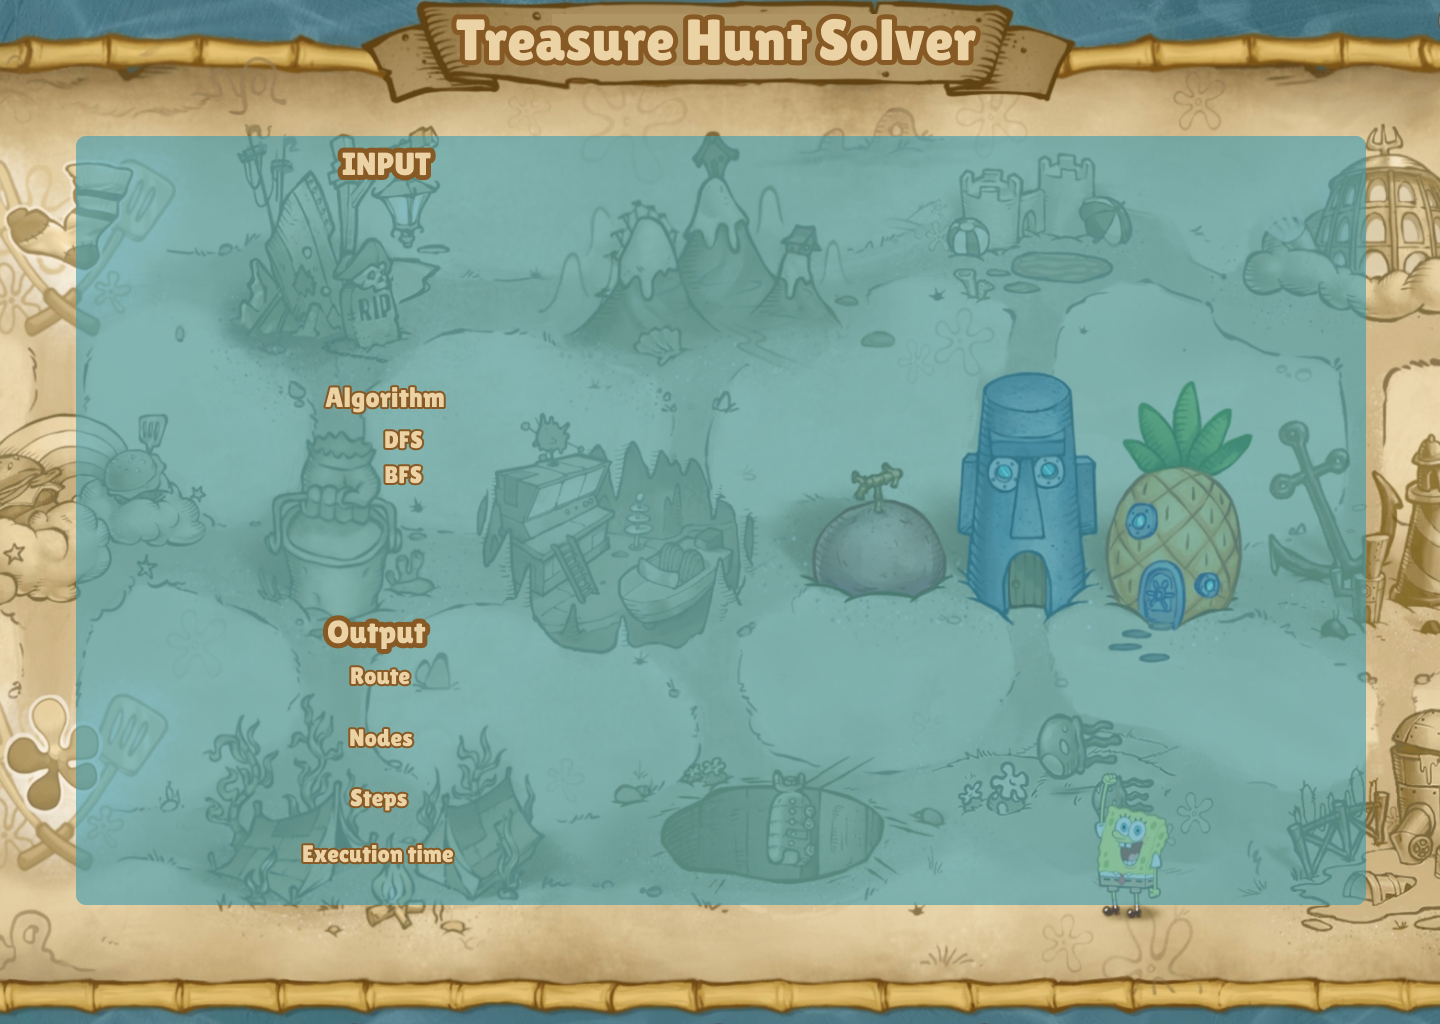
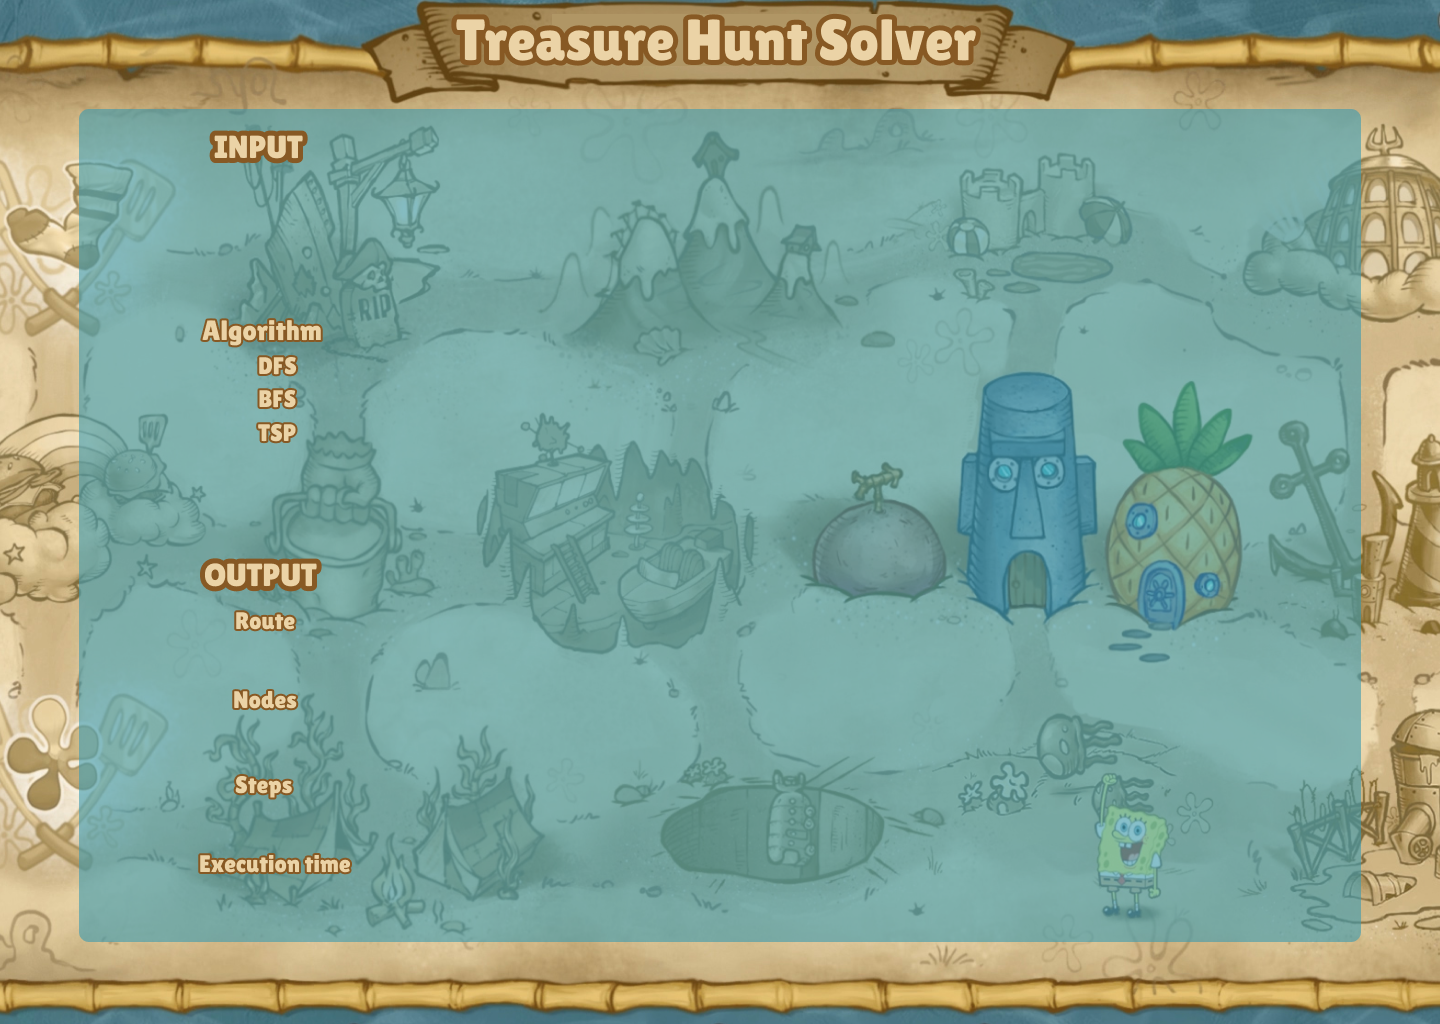
final

Changed region(s): [[0.0312, 0.0938, 0.9688, 0.9375], [0.125, 0.3125, 0.3125, 0.4688], [0.1562, 0.75, 0.2188, 0.7812]]

diff --git a/Main.xaml b/Main.xaml
@@ -6,20 +6,103 @@
         xmlns:local="clr-namespace:MazeSolver"
         mc:Ignorable="d"
         Title="Menu"
+        Height="650" 
+        Width="935"
         WindowStyle="None"
-        WindowState="Maximized"
         d:DesignWidth="868.031">
     <Grid>
-        <Button Name="SelectFile" Content="Open File" HorizontalAlignment="Left" Height="22" Margin="24,126,0,0" VerticalAlignment="Top" Width="123" Click="SelectFile_Click"/>
-        <TextBox Name="FileName" HorizontalAlignment="Left" Height="23" Margin="24,69,0,0" TextWrapping="NoWrap" Text="Masukkan file .." VerticalAlignment="Top" Width="290" TextChanged="TextBox_TextChanged" />
-        <RadioButton Name="dfs" Content="DFS" HorizontalAlignment="Left" Height="19" Margin="24,171,0,0" VerticalAlignment="Top" Width="73" Checked="DFS"/>
-        <RadioButton Name="bfs" Content="BFS" HorizontalAlignment="Left" Height="17" VerticalAlignment="Top" Width="84" Margin="24,205,0,0" Checked="BFS"/>
-        <Button Name="visualize" Content="viusalize" HorizontalAlignment="Left" Margin="130,309,0,0" VerticalAlignment="Top" Height="54" Width="197" Click="Visualize_Click" FontSize="25"/>
-        <Slider HorizontalAlignment="Left" Margin="24,259,0,0" VerticalAlignment="Top" Width="410" Height="28"/>
-        <TextBox Name="MethodNotSelected" HorizontalAlignment="Left" Margin="24,227,0,0" TextWrapping="Wrap" Text="" VerticalAlignment="Top" Width="120" BorderThickness="0"/>
-        <TextBox Name="FileNotSelected" HorizontalAlignment="Left" Margin="24,97,0,0" TextWrapping="Wrap" Text="" VerticalAlignment="Top" Width="120" BorderThickness="0"/>
-        <Rectangle HorizontalAlignment="Stretch" Height="NaN" Margin="470,0,0,0" Stroke="LightBlue" VerticalAlignment="Stretch" Width="NaN" Fill="LightCyan"/>
-        <TextBox HorizontalAlignment="Left" Height="46" Margin="24,10,0,0" TextWrapping="Wrap" Text="Maze Solver" VerticalAlignment="Top" Width="410" FontSize="35" TextAlignment="Center" BorderThickness="0"/>
-        <Canvas Name ="map" Margin="470,0,0,0" Height="NaN" Width="NaN" HorizontalAlignment="Stretch" VerticalAlignment="Stretch"/>
+        <Grid.ColumnDefinitions>
+            <ColumnDefinition/>
+        </Grid.ColumnDefinitions>
+        <Grid.Background>
+            <ImageBrush ImageSource="assets/bg.png"/>
+        </Grid.Background>
+        <Grid Margin="0,-16,0,0">
+            <Grid.ColumnDefinitions>
+                <ColumnDefinition/>
+            </Grid.ColumnDefinitions>
+
+            <Button Name="SelectFile" Click="SelectFile_Click" HorizontalAlignment="Left" Height="20" Margin="128,127,0,0" VerticalAlignment="Top" Width="60" BorderBrush="{x:Null}" Foreground="{x:Null}" RenderTransformOrigin="0.36,0.185">
+                <Button.Style>
+                    <Style TargetType="{x:Type Button}">
+                        <Style.Triggers>
+                            <Trigger Property="IsMouseOver" Value="True">
+                                <Setter Property="Cursor" Value="Hand"/>
+                                <Setter Property="Content">
+                                    <Setter.Value>
+                                        <Image Source="assets/choose1.png"/>
+                                    </Setter.Value>
+                                </Setter>
+                            </Trigger>
+                            <Trigger Property="IsMouseOver" Value="False">
+                                <Setter Property="Cursor" Value="Arrow"/>
+                                <Setter Property="Content">
+                                    <Setter.Value>
+                                        <Image Source="assets/choose.png"/>
+                                    </Setter.Value>
+                                </Setter>
+                            </Trigger>
+                        </Style.Triggers>
+                    </Style>
+                </Button.Style>
+                <Button.Template>
+                    <ControlTemplate TargetType="{x:Type Button}">
+                        <Border Background="Transparent" BorderThickness="0">
+                            <ContentPresenter HorizontalAlignment="Center" VerticalAlignment="Center"/>
+                        </Border>
+                    </ControlTemplate>
+                </Button.Template>
+            </Button>
+
+            <Button Name="Visualize" Click="Visualize_Click" HorizontalAlignment="Left" Height="20" VerticalAlignment="Center" Width="60" BorderBrush="{x:Null}" Foreground="{x:Null}" RenderTransformOrigin="0.633,1.017" Margin="128,0,0,0">
+                <Button.Style>
+                    <Style TargetType="{x:Type Button}">
+                        <Style.Triggers>
+                            <Trigger Property="IsMouseOver" Value="True">
+                                <Setter Property="Cursor" Value="Hand"/>
+                                <Setter Property="Content">
+                                    <Setter.Value>
+                                        <Image Source="assets/visual.png"/>
+                                    </Setter.Value>
+                                </Setter>
+                            </Trigger>
+                            <Trigger Property="IsMouseOver" Value="False">
+                                <Setter Property="Cursor" Value="Arrow"/>
+                                <Setter Property="Content">
+                                    <Setter.Value>
+                                        <Image Source="assets/visual1.png"/>
+                                    </Setter.Value>
+                                </Setter>
+                            </Trigger>
+                        </Style.Triggers>
+                    </Style>
+                </Button.Style>
+                <Button.Template>
+                    <ControlTemplate TargetType="{x:Type Button}">
+                        <Border Background="Transparent" BorderThickness="0">
+                            <ContentPresenter HorizontalAlignment="Center" VerticalAlignment="Center"/>
+                        </Border>
+                    </ControlTemplate>
+                </Button.Template>
+            </Button>
+            <TextBox HorizontalAlignment="Left" BorderThickness="0" FontSize="20" Height="29" Margin="52,339,0,0" TextWrapping="Wrap" Text="0" VerticalAlignment="Top" Width="42" Background="Transparent"/>
+            <TextBox HorizontalAlignment="Left" BorderThickness="0" FontSize="20" Height="29" Margin="343,339,0,0" TextWrapping="Wrap" Text="1" VerticalAlignment="Top" Width="44" Background="Transparent" RenderTransformOrigin="0.314,0.839"/>
+        </Grid>
+        <Canvas Name ="map" Margin="360,72,48,49" Height="NaN" Width="NaN"/>
+        <RadioButton Name="dfs" HorizontalAlignment="Left" Height="19" Margin="135,225,0,0" VerticalAlignment="Top" Width="73"/>
+        <RadioButton Name="bfs" HorizontalAlignment="Left" Height="18" VerticalAlignment="Top" Width="84" Margin="135,246,0,0"/>
+        <TextBox Name="FileName" HorizontalAlignment="Left" Height="23" Margin="56,132,0,0" TextWrapping="NoWrap" Text="Masukkan file .." VerticalAlignment="Top" Width="290" TextChanged="TextBox_TextChanged" />
+        <TextBox Name="FileNotSelected" HorizontalAlignment="Left" Margin="60,157,0,0" TextWrapping="Wrap" Text="" VerticalAlignment="Top" Width="120" BorderThickness="0" Background="Transparent"/>
+        <TextBox Name="MethodNotSelected" HorizontalAlignment="Left" Margin="132,287,0,0" TextWrapping="Wrap" Text="" VerticalAlignment="Top" Width="66" BorderThickness="0" Height="10" Background="Transparent"/>
+        <Slider Name="Delay" HorizontalAlignment="Left" Margin="81,329,0,0" VerticalAlignment="Top" Width="252" Height="28" Minimum="0" Maximum="1000"/>
+        <CheckBox  Name="tsp" HorizontalAlignment="Left" Height="30" VerticalAlignment="Top" Width="20" Margin="135,267,0,0"/>
+        <TextBox Name="Route" HorizontalAlignment="Left" Height="20" Margin="60,409,0,0" TextWrapping="NoWrap" VerticalAlignment="Top" Width="273" Background="Transparent" BorderThickness="0"/>
+        <TextBox Name="NodeCountText" TextAlignment="Center" HorizontalAlignment="Left" Height="20" Margin="128,459,0,0" TextWrapping="NoWrap" VerticalAlignment="Top" Width="74" Background="Transparent" BorderThickness="0"/>
+        <TextBox Name="StepCountText" TextAlignment="Center" HorizontalAlignment="Left" Height="20" Margin="128,514,0,0" TextWrapping="NoWrap" VerticalAlignment="Top" Width="74" Background="Transparent" BorderThickness="0"/>
+        <TextBox Name="RunTime" TextAlignment="Center" HorizontalAlignment="Left" Height="25" Margin="128,566,0,0" TextWrapping="NoWrap" VerticalAlignment="Top" Width="86" Background="Transparent" BorderThickness="0"/>
+
+
+
     </Grid>
+
 </Window>

diff --git a/Main.xaml.cs b/Main.xaml.cs
@@ -34,8 +34,7 @@ namespace MazeSolver
         public MainWindow()
         {
             InitializeComponent();
-
-            
+            this.ResizeMode = ResizeMode.NoResize;
         }
 
         private void TextBox_TextChanged(object sender, TextChangedEventArgs e)
@@ -64,7 +63,8 @@ namespace MazeSolver
 
                 string filePath = openFileDialog.FileName;
                 fileSelected = true;
-                FileName.Text = filePath;
+                string fileName = System.IO.Path.GetFileName(filePath);
+                FileName.Text = fileName;
                 FileNotSelected.Text = "";
                 bool fileCorrect = true;
                 maze.createMap(filePath);
@@ -107,9 +107,9 @@ namespace MazeSolver
                             text.VerticalContentAlignment = VerticalAlignment.Center;
                             text.Width = width;
                             text.Height = height;
-                            text.FontSize = width/11+10;
+                            text.FontSize = width/11*1.5;
                             text.Background = Brushes.Transparent;
-                            Panel.SetZIndex(text, 1);
+                            Panel.SetZIndex(text, 3);
                             map.Children.Add(text);
                             Canvas.SetTop(text, top);
                             Canvas.SetLeft(text, left);
@@ -125,9 +125,9 @@ namespace MazeSolver
                             text.VerticalContentAlignment = VerticalAlignment.Center;
                             text.Width = width;
                             text.Height = height;
-                            text.FontSize = width/8+10;
+                            text.FontSize = width/8*1.5;
                             text.Background = Brushes.Transparent;
-                            Panel.SetZIndex(text, 1);
+                            Panel.SetZIndex(text, 3);
                             map.Children.Add(text);
                             Canvas.SetTop(text, top);
                             Canvas.SetLeft(text, left);
@@ -135,7 +135,7 @@ namespace MazeSolver
                         rect.Stroke = Brushes.Black;
                         rect.Width = width;
                         rect.Height = height;
-                        Panel.SetZIndex(rect, 0);
+                        Panel.SetZIndex(rect, 2);
                         map.Children.Add(rect);
                         Canvas.SetTop(rect, top);
                         Canvas.SetLeft(rect, left);
@@ -165,26 +165,36 @@ namespace MazeSolver
                 {
                     MethodNotSelected.Text = "";
                     maze.BFS();
-                    maze.visualize();
-                    FileName.Text = maze.Path;
+                    bool TSP = tsp.IsChecked ?? false;
+                    maze.visualize((int)Delay.Value, TSP);
+                    Route.Text = maze.Path;
+                    RunTime.Text = maze.RunTime.ToString() + " ms";
+                    NodeCountText.Text = maze.nodeCount().ToString();
+                    StepCountText.Text = (maze.StepCount-1).ToString();
+
+                    
                     // do bfs
                 }
                 else if (dfs.IsChecked == true)
                 {
+                    maze.StepCount = 0;
                     maze.Steps.Clear();
                     maze.StraightSteps.Clear();
                     Stopwatch stopwatch = new Stopwatch();
                     MethodNotSelected.Text = "";
-                    int x = 1;
                     maze.Path = "";
                     HashSet<Node> visited = new HashSet<Node>();
                     HashSet<Node> visitedT = new HashSet<Node>();
                     stopwatch.Start();
-                    maze.DFS(maze.StartNode, visited, visitedT, x);
+                    maze.DFS(maze.StartNode, visited, visitedT);
                     stopwatch.Stop();
                     maze.RunTime = stopwatch.Elapsed.TotalMilliseconds;
-                    maze.visualize();
-                    FileName.Text = maze.Path;
+                    bool TSP = tsp.IsChecked ?? false;
+                    maze.visualize((int)Delay.Value, TSP);
+                    Route.Text = maze.Path;
+                    RunTime.Text = maze.RunTime.ToString() + " ms";
+                    NodeCountText.Text = maze.nodeCount().ToString();
+                    StepCountText.Text = (maze.StepCount - 1).ToString();
                     // do dfs
                 }
                 else

diff --git a/src/Maze.cs b/src/Maze.cs
@@ -21,6 +21,7 @@ namespace MazeSolver {
     {
 
         private Node startNode;
+        private int stepCount = 0;
         private int treasureCount = 0;
         private int width;
         private int height;
@@ -91,6 +92,11 @@ namespace MazeSolver {
         public Node StartNode
         {
             get { return startNode; }
+        }
+        public int StepCount
+        {
+            get { return stepCount; }
+            set { stepCount = value; }
         }
 
         public double RunTime
@@ -215,6 +221,7 @@ namespace MazeSolver {
             HashSet<Node> visitedT = new HashSet<Node>();
             this.steps.Clear();
             this.straightSteps.Clear();
+            this.stepCount = 0;
 
             stopwatch.Start();
 
@@ -224,6 +231,7 @@ namespace MazeSolver {
             this.straightSteps.Add(this.startNode);
             while (queue.Count > 0 && visitedT.Count < this.TreasureCount)
             {
+                stepCount++;
                 Node node = queue.Dequeue();
                 visited.Add(node);
                 this.steps.Add(node);
@@ -258,35 +266,35 @@ namespace MazeSolver {
             this.runTime = stopwatch.Elapsed.TotalMilliseconds;
         }
 
-        public async void visualize()
+        public async void visualize(int delay, bool tsp)
         {
             foreach (Node node in this.steps)
             {
                 this.rectangles[node.Ordinat][node.Absis].Fill = Brushes.Blue;
-                await Task.Delay(100);
+                await Task.Delay(delay);
                 this.rectangles[node.Ordinat][node.Absis].Fill = Brushes.Aqua;
             }
-            backTrackVisualize();
+            if (tsp)
+            backTrackVisualize(delay);
             
         }
-        public async void backTrackVisualize()
+        public async void backTrackVisualize(int delay)
         {
             for (int i = this.straightSteps.Count - 1; i >= 0; i--)
             {
                 this.rectangles[straightSteps[i].Ordinat][straightSteps[i].Absis].Fill = Brushes.Blue;
-                await Task.Delay(100);
+                await Task.Delay(delay);
                 this.rectangles[straightSteps[i].Ordinat][straightSteps[i].Absis].Fill = Brushes.Aqua;
             }
         }
 
-        public void DFS(Node node, HashSet<Node> visited, HashSet<Node> visitedT, int x)
+        public void DFS(Node node, HashSet<Node> visited, HashSet<Node> visitedT)
         {
-
+            stepCount++;
             if (visitedT.Count == TreasureCount)
             {
                 return;
             }
-            x++;
             if (this.Path.Length > 0)
                 this.Path += " - ";
             visited.Add(node);
@@ -309,7 +317,7 @@ namespace MazeSolver {
                         this.Path += " - ";
                         this.Path += ("(" + straightSteps[straightSteps.Count - 1].Ordinat.ToString() + "," + straightSteps[straightSteps.Count - 1].Absis.ToString() + ")");
                     }
-                    DFS(neighbor, visited, visitedT, x);
+                    DFS(neighbor, visited, visitedT);
                 }
             }
         }
